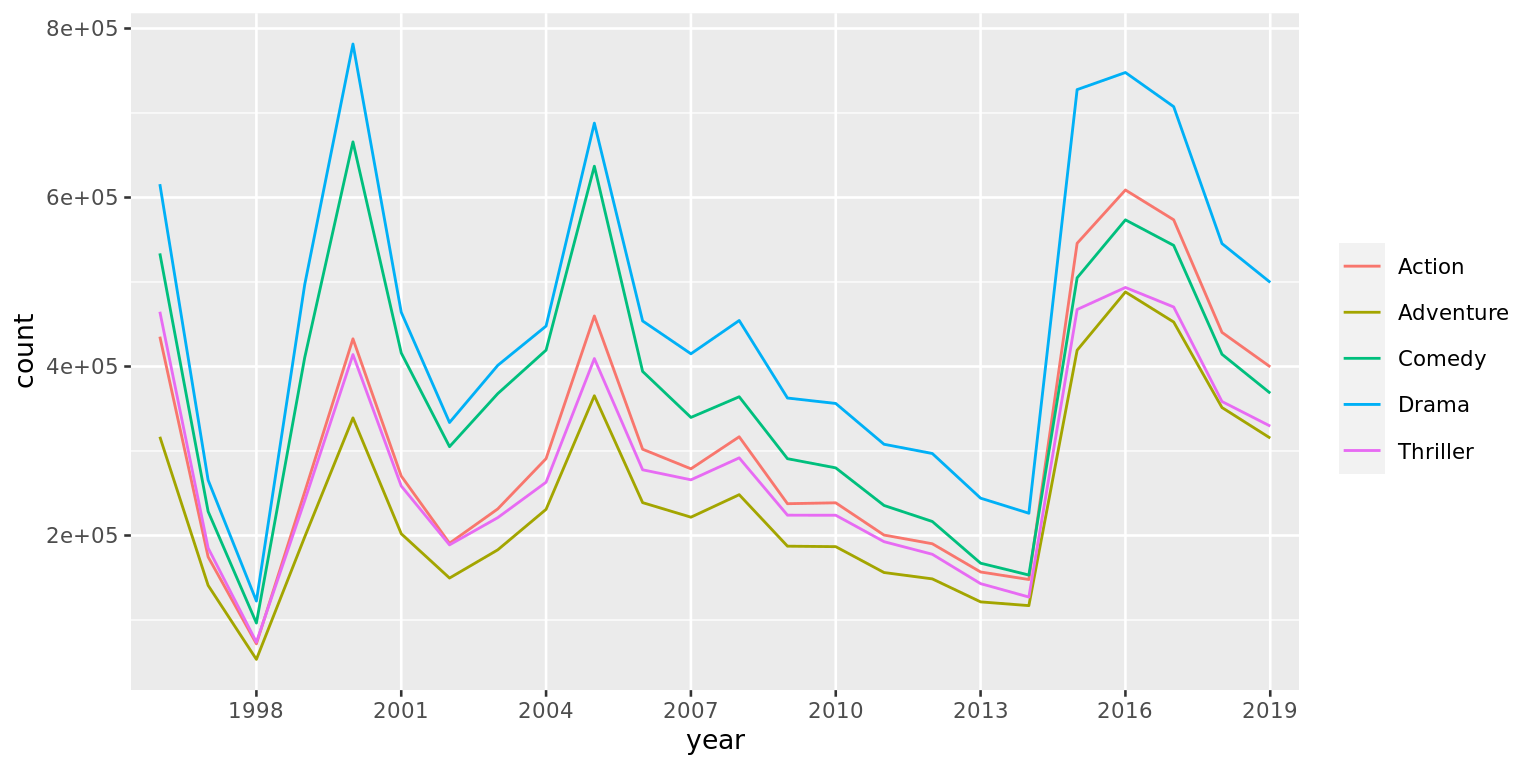
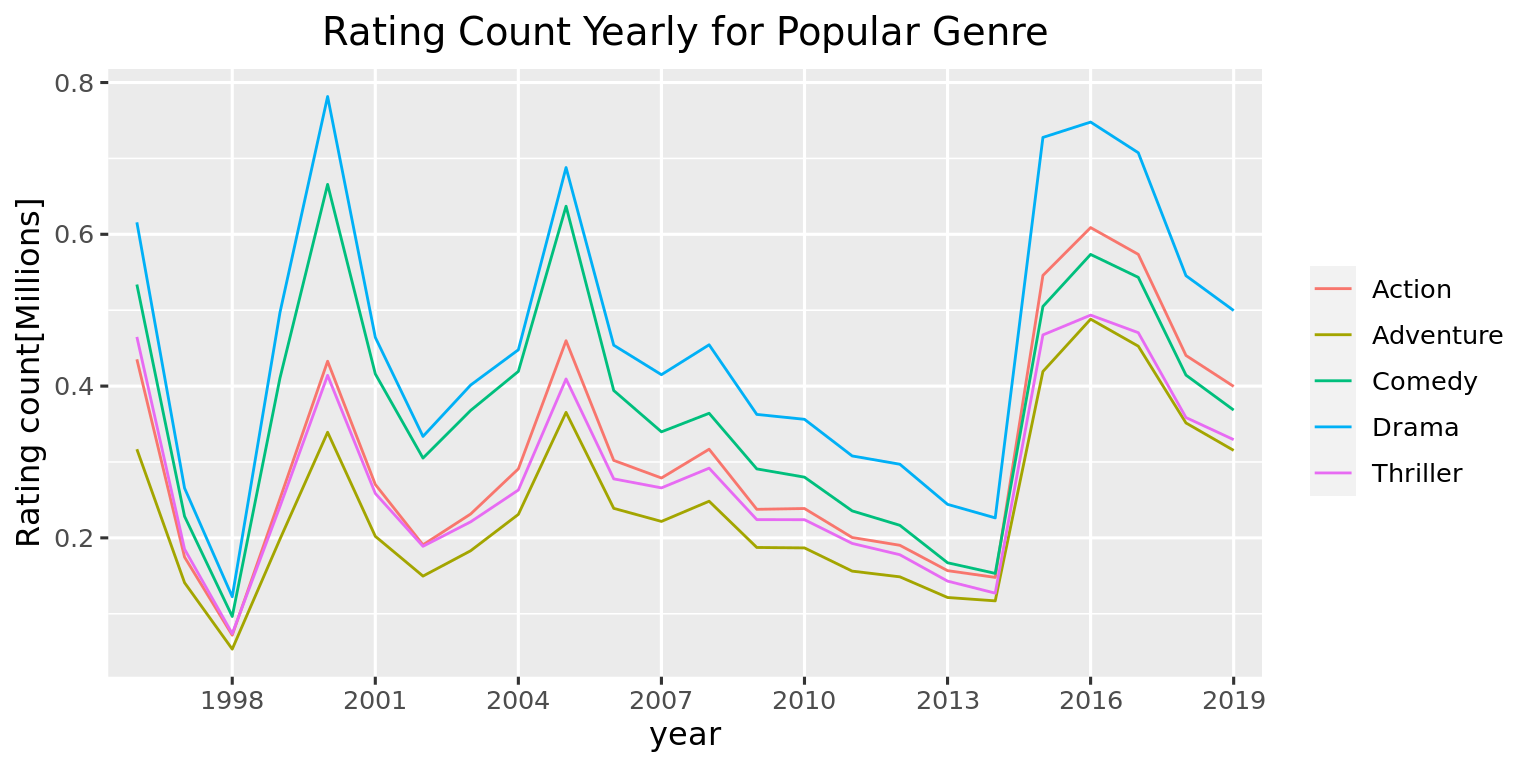
add text

diff --git a/docs/results.html b/docs/results.html
@@ -80,10 +80,10 @@
 <ul>
 <li class="chapter" data-level="5.1" data-path="results.html"><a href="results.html#overall-trend"><i class="fa fa-check"></i><b>5.1</b> Overall Trend</a></li>
 <li class="chapter" data-level="5.2" data-path="results.html"><a href="results.html#genre-exploration"><i class="fa fa-check"></i><b>5.2</b> Genre Exploration</a></li>
-<li class="chapter" data-level="5.3" data-path="results.html"><a href="results.html#popular-genre-year-analysis"><i class="fa fa-check"></i><b>5.3</b> Popular Genre Year Analysis</a></li>
+<li class="chapter" data-level="5.3" data-path="results.html"><a href="results.html#popular-genre-trend-analysis"><i class="fa fa-check"></i><b>5.3</b> Popular Genre Trend Analysis</a></li>
 <li class="chapter" data-level="5.4" data-path="results.html"><a href="results.html#overlap-for-popular-genres"><i class="fa fa-check"></i><b>5.4</b> Overlap for popular genres</a></li>
 <li class="chapter" data-level="5.5" data-path="results.html"><a href="results.html#popular-movie-in-most-popular-genres"><i class="fa fa-check"></i><b>5.5</b> Popular Movie in Most popular genres</a></li>
-<li class="chapter" data-level="5.6" data-path="results.html"><a href="results.html#trend-of-the-most-popular-movie"><i class="fa fa-check"></i><b>5.6</b> Trend of The most popular Movie</a></li>
+<li class="chapter" data-level="5.6" data-path="results.html"><a href="results.html#yearly-rating-for-the-most-popular-movie"><i class="fa fa-check"></i><b>5.6</b> Yearly Rating for The most popular Movie</a></li>
 <li class="chapter" data-level="5.7" data-path="results.html"><a href="results.html#aluvial-for-famous-movies"><i class="fa fa-check"></i><b>5.7</b> Aluvial for famous movies</a></li>
 </ul></li>
 <li class="chapter" data-level="6" data-path="interactive-component.html"><a href="interactive-component.html"><i class="fa fa-check"></i><b>6</b> Interactive component</a></li>
@@ -112,28 +112,30 @@
 <p>We begin with an overall analysis and then move to genre analysis. Finally we reach to analysing popular movie in the most popular genre and to see its connection with other movies.</p>
 <div id="overall-trend" class="section level2 hasAnchor" number="5.1">
 <h2><span class="header-section-number">5.1</span> Overall Trend<a href="results.html#overall-trend" class="anchor-section" aria-label="Anchor link to header"></a></h2>
+<p>From overall perspective, one thing worth noting is that the movielen dataset isn’t affected by the rapid development of internet. From 1997 to 2019, approximately 1 million rating as assigned to different movies. Another interesting thing is that, when we calculate rating for each year, it appears to be the same at 3.5 all time! Regarding that we only have 25M data sampling from a large dataset, if it’s not caused by sampling, it exposes a fact that “Mean Reversion” may exist in movie rating!</p>
 <p><img src="finalproj_files/figure-html/unnamed-chunk-6-1.png" width="768" style="display: block; margin: auto;" /></p>
 </div>
 <div id="genre-exploration" class="section level2 hasAnchor" number="5.2">
 <h2><span class="header-section-number">5.2</span> Genre Exploration<a href="results.html#genre-exploration" class="anchor-section" aria-label="Anchor link to header"></a></h2>
-<p>//To-do: Modified Label<br />
-</p>
+<p>Given that we already have a concept for overall data, let’s move to the next level. We can divide all the data into different genre and see what kind of genres gets more rating, indicating that more people would like to watch movie under these genres! The figure shown below shows that people love to watch movies related to Drama, Comedy, Action, Thriller and etc…It tells a common sense that most people love to watch something may entertain themselves.</p>
 <p><img src="finalproj_files/figure-html/unnamed-chunk-7-1.png" width="768" style="display: block; margin: auto;" /></p>
 </div>
-<div id="popular-genre-year-analysis" class="section level2 hasAnchor" number="5.3">
-<h2><span class="header-section-number">5.3</span> Popular Genre Year Analysis<a href="results.html#popular-genre-year-analysis" class="anchor-section" aria-label="Anchor link to header"></a></h2>
+<div id="popular-genre-trend-analysis" class="section level2 hasAnchor" number="5.3">
+<h2><span class="header-section-number">5.3</span> Popular Genre Trend Analysis<a href="results.html#popular-genre-trend-analysis" class="anchor-section" aria-label="Anchor link to header"></a></h2>
+<p>Next, we analysis popular genre trend from year to year, hoping to find some insights from yearly analysis. Interestingly, there’s high correlation between these genre. From the figure below, we can find they almost have the same trend over the year!</p>
 <p><img src="finalproj_files/figure-html/unnamed-chunk-8-1.png" width="768" style="display: block; margin: auto;" /></p>
 </div>
 <div id="overlap-for-popular-genres" class="section level2 hasAnchor" number="5.4">
 <h2><span class="header-section-number">5.4</span> Overlap for popular genres<a href="results.html#overlap-for-popular-genres" class="anchor-section" aria-label="Anchor link to header"></a></h2>
+<p>The figure above triggers us to think about a question. Since the trend with those genres is so similar, is that some movies contains at least two of them and people love to watch those movies? We categorize movies according to their genre and calculate percentage of each level. We find that 74.8% movies contains at least one of the genre. It tells us that most of films fall into these genres, meaning that people are likely to watch these genres movies. However, it also raises doubt that, is that people love to watch movies from genre, or some movies from these genre attract people to watch and consequently these genres become one of the most popular genre among all the genre?</p>
 <p><img src="finalproj_files/figure-html/unnamed-chunk-9-1.png" width="672" style="display: block; margin: auto;" /></p>
 </div>
 <div id="popular-movie-in-most-popular-genres" class="section level2 hasAnchor" number="5.5">
 <h2><span class="header-section-number">5.5</span> Popular Movie in Most popular genres<a href="results.html#popular-movie-in-most-popular-genres" class="anchor-section" aria-label="Anchor link to header"></a></h2>
 <p><img src="finalproj_files/figure-html/unnamed-chunk-10-1.png" width="672" style="display: block; margin: auto;" /></p>
 </div>
-<div id="trend-of-the-most-popular-movie" class="section level2 hasAnchor" number="5.6">
-<h2><span class="header-section-number">5.6</span> Trend of The most popular Movie<a href="results.html#trend-of-the-most-popular-movie" class="anchor-section" aria-label="Anchor link to header"></a></h2>
+<div id="yearly-rating-for-the-most-popular-movie" class="section level2 hasAnchor" number="5.6">
+<h2><span class="header-section-number">5.6</span> Yearly Rating for The most popular Movie<a href="results.html#yearly-rating-for-the-most-popular-movie" class="anchor-section" aria-label="Anchor link to header"></a></h2>
 <p><img src="finalproj_files/figure-html/unnamed-chunk-11-1.png" width="768" style="display: block; margin: auto;" /></p>
 </div>
 <div id="aluvial-for-famous-movies" class="section level2 hasAnchor" number="5.7">

diff --git a/docs/404.html b/docs/404.html
@@ -80,10 +80,10 @@
 <ul>
 <li class="chapter" data-level="5.1" data-path="results.html"><a href="results.html#overall-trend"><i class="fa fa-check"></i><b>5.1</b> Overall Trend</a></li>
 <li class="chapter" data-level="5.2" data-path="results.html"><a href="results.html#genre-exploration"><i class="fa fa-check"></i><b>5.2</b> Genre Exploration</a></li>
-<li class="chapter" data-level="5.3" data-path="results.html"><a href="results.html#popular-genre-year-analysis"><i class="fa fa-check"></i><b>5.3</b> Popular Genre Year Analysis</a></li>
+<li class="chapter" data-level="5.3" data-path="results.html"><a href="results.html#popular-genre-trend-analysis"><i class="fa fa-check"></i><b>5.3</b> Popular Genre Trend Analysis</a></li>
 <li class="chapter" data-level="5.4" data-path="results.html"><a href="results.html#overlap-for-popular-genres"><i class="fa fa-check"></i><b>5.4</b> Overlap for popular genres</a></li>
 <li class="chapter" data-level="5.5" data-path="results.html"><a href="results.html#popular-movie-in-most-popular-genres"><i class="fa fa-check"></i><b>5.5</b> Popular Movie in Most popular genres</a></li>
-<li class="chapter" data-level="5.6" data-path="results.html"><a href="results.html#trend-of-the-most-popular-movie"><i class="fa fa-check"></i><b>5.6</b> Trend of The most popular Movie</a></li>
+<li class="chapter" data-level="5.6" data-path="results.html"><a href="results.html#yearly-rating-for-the-most-popular-movie"><i class="fa fa-check"></i><b>5.6</b> Yearly Rating for The most popular Movie</a></li>
 <li class="chapter" data-level="5.7" data-path="results.html"><a href="results.html#aluvial-for-famous-movies"><i class="fa fa-check"></i><b>5.7</b> Aluvial for famous movies</a></li>
 </ul></li>
 <li class="chapter" data-level="6" data-path="interactive-component.html"><a href="interactive-component.html"><i class="fa fa-check"></i><b>6</b> Interactive component</a></li>
